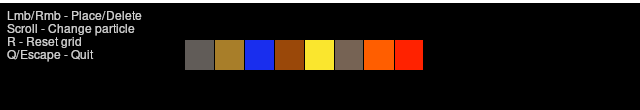
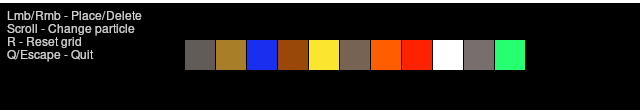
Added flammable gas, particle selection is now pixel-consistant, and you can now spawn gases without any chemical reactions.

diff --git a/main.cpp b/main.cpp
@@ -6,7 +6,7 @@
 
 struct Particle{
     bool toMove;
-    int type; // 0->air, 1->stone, 2->wood, 3->water, 4->oil, 5->sand, 6->gunpowder, 7->fire, 8->lava, 9->steam, 10->smoke
+    int type; // 0->air, 1->stone, 2->wood, 3->water, 4->oil, 5->sand, 6->gunpowder, 7->fire, 8->lava, 9->steam, 10->smoke, 11->flammable gas
     SDL_Surface *image;
     SDL_Rect rect;
 };
@@ -32,7 +32,7 @@ int main(int argv, char* args[]){
 
     // Pre-loop stuff
     //
-    // 0->air, 1->stone, 2->wood, 3->water, 4->oil, 5->sand, 6->gunpowder, 7->fire, 8->lava, 9->steam, 10->smoke
+    // 0->air, 1->stone, 2->wood, 3->water, 4->oil, 5->sand, 6->gunpowder, 7->fire, 8->lava, 9->steam, 10->smoke, 11->flammable gas
     const int AIR=0;
     const int STONE=1;
     const int WOOD=2;
@@ -44,17 +44,18 @@ int main(int argv, char* args[]){
     const int LAVA=8;
     const int STEAM=9;
     const int SMOKE=10;
+    const int FLAMMABLE_GAS=11;
 
     const int SOLIDS[2]={1,2};
     const int POWDERS[2]={5,6};
     const int FLUIDS[3]={3,4,8};
-    const int GASES[2]={9,10};
+    const int GASES[3]={9,10,11};
 
     const int STARTING_FIRE[2]={7,8};
-    const int FLAMMABLE[3]={2,4,6};
-    const int CAN_GO_THROUGH[3]={0,9,10};
+    const int FLAMMABLE[4]={2,4,6,11};
+    const int CAN_GO_THROUGH[4]={0,9,10,11};
 
-    const int PARTICLE_COLORS[11][3]={
+    const int PARTICLE_COLORS[12][3]={
         {0,0,0}, //air
         {97,92,88}, //stone
         {168,126,41}, //wood
@@ -65,7 +66,8 @@ int main(int argv, char* args[]){
         {255,94,0}, //fire
         {255,34,0}, //lava
         {229,221,221}, //steam
-        {47,43,43} //smoke
+        {47,43,43}, //smoke
+        {15,230,44} //flammable gas
     };
 
     Particle grid[64][64];
@@ -86,7 +88,7 @@ int main(int argv, char* args[]){
     uiRect.x=0;
     uiRect.y=640;
 
-    SDL_Surface *uiSelectionImage=SDL_CreateRGBSurface(0,29,10,32,0,0,0,0);
+    SDL_Surface *uiSelectionImage=SDL_CreateRGBSurface(0,30,10,32,0,0,0,0);
     SDL_Rect uiSelectionRect=uiSelectionImage->clip_rect;
     SDL_FillRect(uiSelectionImage,NULL,SDL_MapRGB(screen->format,255,255,255));
     uiSelectionRect.y=715;
@@ -112,10 +114,10 @@ int main(int argv, char* args[]){
             else if(event.type==SDL_MOUSEWHEEL){
                 if(event.wheel.y<0){
                     particlePlacingId++;
-                    if(particlePlacingId==9) particlePlacingId=1;
+                    if(particlePlacingId==12) particlePlacingId=1;
                 }else if(event.wheel.y>0){
                     particlePlacingId--;
-                    if(particlePlacingId==0) particlePlacingId=8;
+                    if(particlePlacingId==0) particlePlacingId=11;
                 }
             }
             else if(event.type==SDL_MOUSEBUTTONDOWN){
@@ -166,7 +168,7 @@ int main(int argv, char* args[]){
         for(int i=0;i<64;i++){
             for(int j=0;j<64;j++){
                 //Fire disappearing
-                if(grid[i][j].type==FIRE&&(rand() % 101==0||(grid[i][j-1].type!=AIR&&j>0))){
+                if(grid[i][j].type==FIRE&&rand() % 101==0){
                     grid[i][j].type=SMOKE;
                     if(grid[i][j-1].type==AIR&&j>0){
                         grid[i][j-1].type=SMOKE;
@@ -175,7 +177,7 @@ int main(int argv, char* args[]){
 
                 //Fire spreading, burning and water evaporation
                 if(grid[i][j].type==FIRE||grid[i][j].type==LAVA){
-                    if(rand()%101<4&&i<63&&(isInThatList(FLAMMABLE,grid[i+1][j].type)||grid[i+1][j].type==WATER)){
+                    if(rand()%101<2&&i<63&&(isInThatList(FLAMMABLE,grid[i+1][j].type)||grid[i+1][j].type==WATER)){
                         if(grid[i+1][j].type==WATER){
                             grid[i+1][j].type=STEAM;
                             if(grid[i][j].type==LAVA)
@@ -184,7 +186,7 @@ int main(int argv, char* args[]){
                         else
                         grid[i+1][j].type=FIRE;
                     }
-                    if(rand()%101<4&&i>0&&(isInThatList(FLAMMABLE,grid[i-1][j].type)||grid[i-1][j].type==WATER)){
+                    if(rand()%101<2&&i>0&&(isInThatList(FLAMMABLE,grid[i-1][j].type)||grid[i-1][j].type==WATER)){
                         if(grid[i-1][j].type==WATER){
                             grid[i-1][j].type=STEAM;
                             if(grid[i][j].type==LAVA)
@@ -193,7 +195,7 @@ int main(int argv, char* args[]){
                         else
                         grid[i-1][j].type=FIRE;
                     }
-                    if(rand()%101<4&&i<63&&j<63&&(isInThatList(FLAMMABLE,grid[i+1][j+1].type)||grid[i+1][j+1].type==WATER)){
+                    if(rand()%101<2&&i<63&&j<63&&(isInThatList(FLAMMABLE,grid[i+1][j+1].type)||grid[i+1][j+1].type==WATER)){
                         if(grid[i+1][j+1].type==WATER){
                             grid[i+1][j+1].type=STEAM;
                             if(grid[i][j].type==LAVA)
@@ -202,7 +204,7 @@ int main(int argv, char* args[]){
                         else
                         grid[i+1][j+1].type=FIRE;
                     }
-                    if(rand()%101<4&&i>0&&j<63&&(isInThatList(FLAMMABLE,grid[i-1][j+1].type)||grid[i-1][j+1].type==WATER)){
+                    if(rand()%101<2&&i>0&&j<63&&(isInThatList(FLAMMABLE,grid[i-1][j+1].type)||grid[i-1][j+1].type==WATER)){
                         if(grid[i-1][j+1].type==WATER){
                             grid[i-1][j+1].type=STEAM;
                             if(grid[i][j].type==LAVA)
@@ -211,7 +213,7 @@ int main(int argv, char* args[]){
                         else
                         grid[i-1][j+1].type=FIRE;
                     }
-                    if(rand()%101<4&&i>0&&j>0&&(isInThatList(FLAMMABLE,grid[i-1][j-1].type)||grid[i-1][j-1].type==WATER)){
+                    if(rand()%101<2&&i>0&&j>0&&(isInThatList(FLAMMABLE,grid[i-1][j-1].type)||grid[i-1][j-1].type==WATER)){
                         if(grid[i-1][j-1].type==WATER){
                             grid[i-1][j-1].type=STEAM;
                             if(grid[i][j].type==LAVA)
@@ -220,7 +222,7 @@ int main(int argv, char* args[]){
                         else
                         grid[i-1][j-1].type=FIRE;
                     }
-                    if(rand()%101<4&&i<63&&j>0&&(isInThatList(FLAMMABLE,grid[i+1][j-1].type)||grid[i+1][j-1].type==WATER)){
+                    if(rand()%101<2&&i<63&&j>0&&(isInThatList(FLAMMABLE,grid[i+1][j-1].type)||grid[i+1][j-1].type==WATER)){
                         if(grid[i+1][j-1].type==WATER){
                             grid[i+1][j-1].type=STEAM;
                             if(grid[i][j].type==LAVA)
@@ -229,7 +231,7 @@ int main(int argv, char* args[]){
                         else
                         grid[i+1][j-1].type=FIRE;
                     }
-                    if(rand()%101<4&&j<63&&(isInThatList(FLAMMABLE,grid[i][j+1].type)||grid[i][j+1].type==WATER)){
+                    if(rand()%101<2&&j<63&&(isInThatList(FLAMMABLE,grid[i][j+1].type)||grid[i][j+1].type==WATER)){
                         if(grid[i][j+1].type==WATER){
                             grid[i][j+1].type=STEAM;
                             if(grid[i][j].type==LAVA)
@@ -238,7 +240,7 @@ int main(int argv, char* args[]){
                         else
                         grid[i][j+1].type=FIRE;
                     }
-                    if(rand()%101<4&&j>0&&(isInThatList(FLAMMABLE,grid[i][j-1].type)||grid[i][j-1].type==WATER)){
+                    if(rand()%101<2&&j>0&&(isInThatList(FLAMMABLE,grid[i][j-1].type)||grid[i][j-1].type==WATER)){
                         if(grid[i][j-1].type==WATER){
                             grid[i][j-1].type=STEAM;
                             if(grid[i][j].type==LAVA)
@@ -339,7 +341,7 @@ int main(int argv, char* args[]){
 
         //UI
         SDL_BlitSurface(uiImage,NULL,screen,&uiRect);
-        uiSelectionRect.x=155+(30*particlePlacingId);
+        uiSelectionRect.x=154+(31*particlePlacingId);
         SDL_BlitSurface(uiSelectionImage,NULL,screen,&uiSelectionRect);
 
         if((1000/16)>SDL_GetTicks()-frameStartTick) SDL_Delay(1000/16-(SDL_GetTicks()-frameStartTick));
